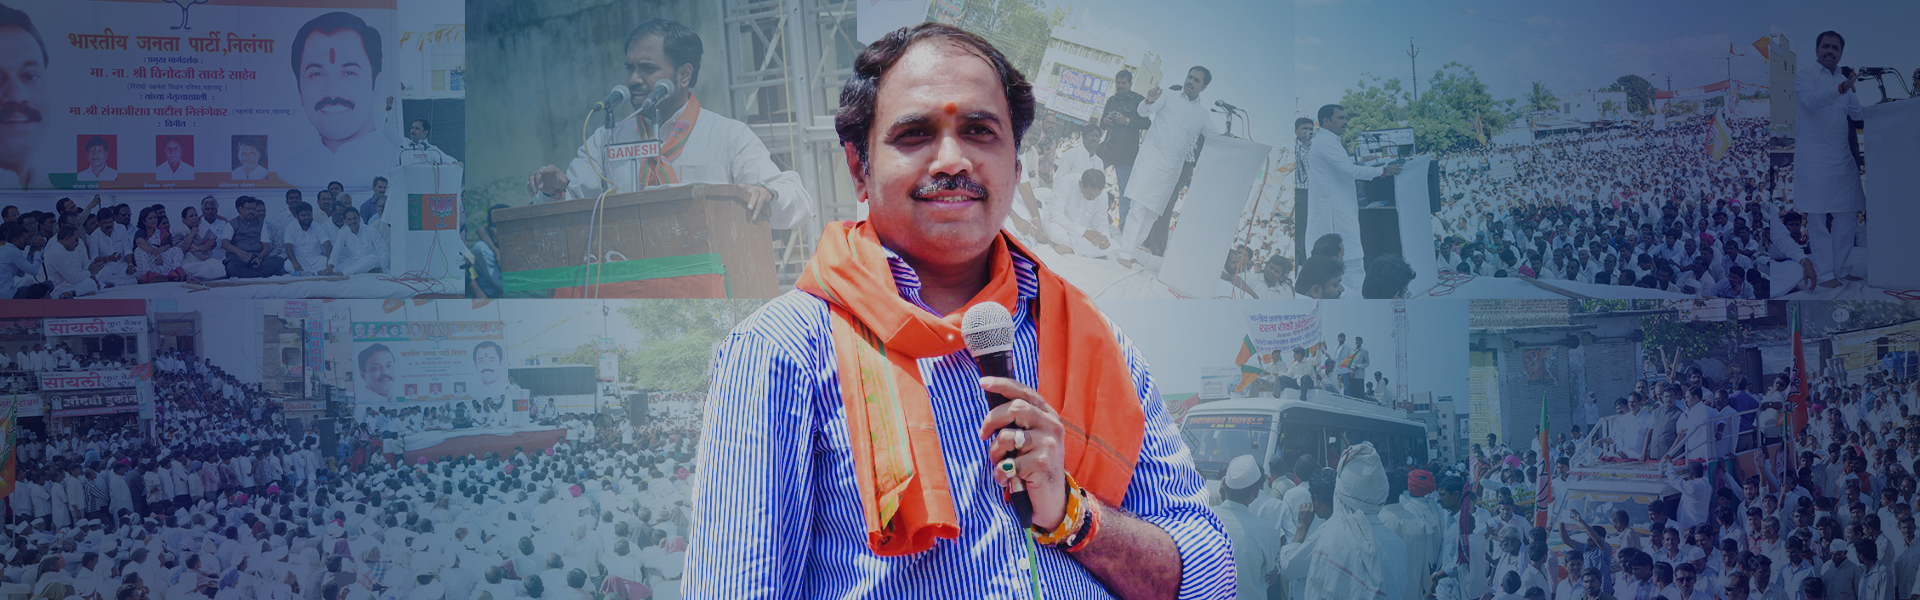
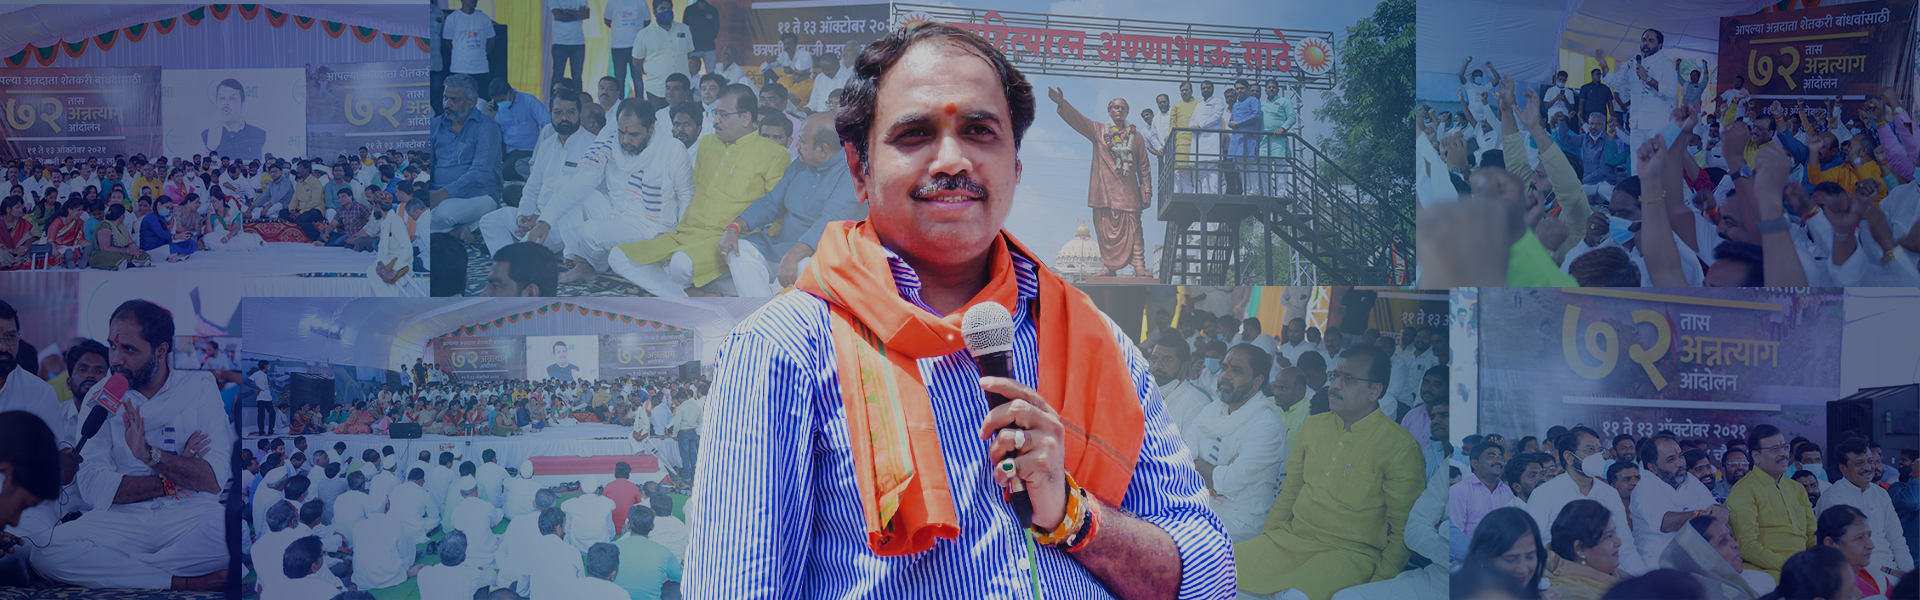
image added

diff --git a/src/Pages/Taasandolan.js b/src/Pages/Taasandolan.js
@@ -40,7 +40,7 @@ function Taasandolan(props) {
       {props.data.map((data) => {
         return (
           <>
-            <div className="jal-parent parent bg-img-cover">
+            <div className="jal-parent taas-parent parent bg-img-cover">
               <div className="jal-overlay"></div>
               <h2 className="jal-headding1">72 Taas Andolan</h2>
             </div>

diff --git a/src/Styles/taasandolan.scss b/src/Styles/taasandolan.scss
@@ -1,10 +1,9 @@
 .taas-parent {
-  height: 600px;
-  width: 100%; 
+  
+   
   background: url("../assets/72_taas_andolan.jpg");
-  position: relative;
-  display: flex;
-  justify-content: center;
+ 
+  
 
   .taas-overlay {
     height: 100%;

diff --git a/src/Styles/akkafoundation.scss b/src/Styles/akkafoundation.scss
@@ -166,8 +166,8 @@
         display: flex !important;
         justify-content: left !important;
       }
-      .swiper-btn {
-      }
+      // .swiper-btn {
+      // }
     }
     .right-swiper {
       display: none !important;
